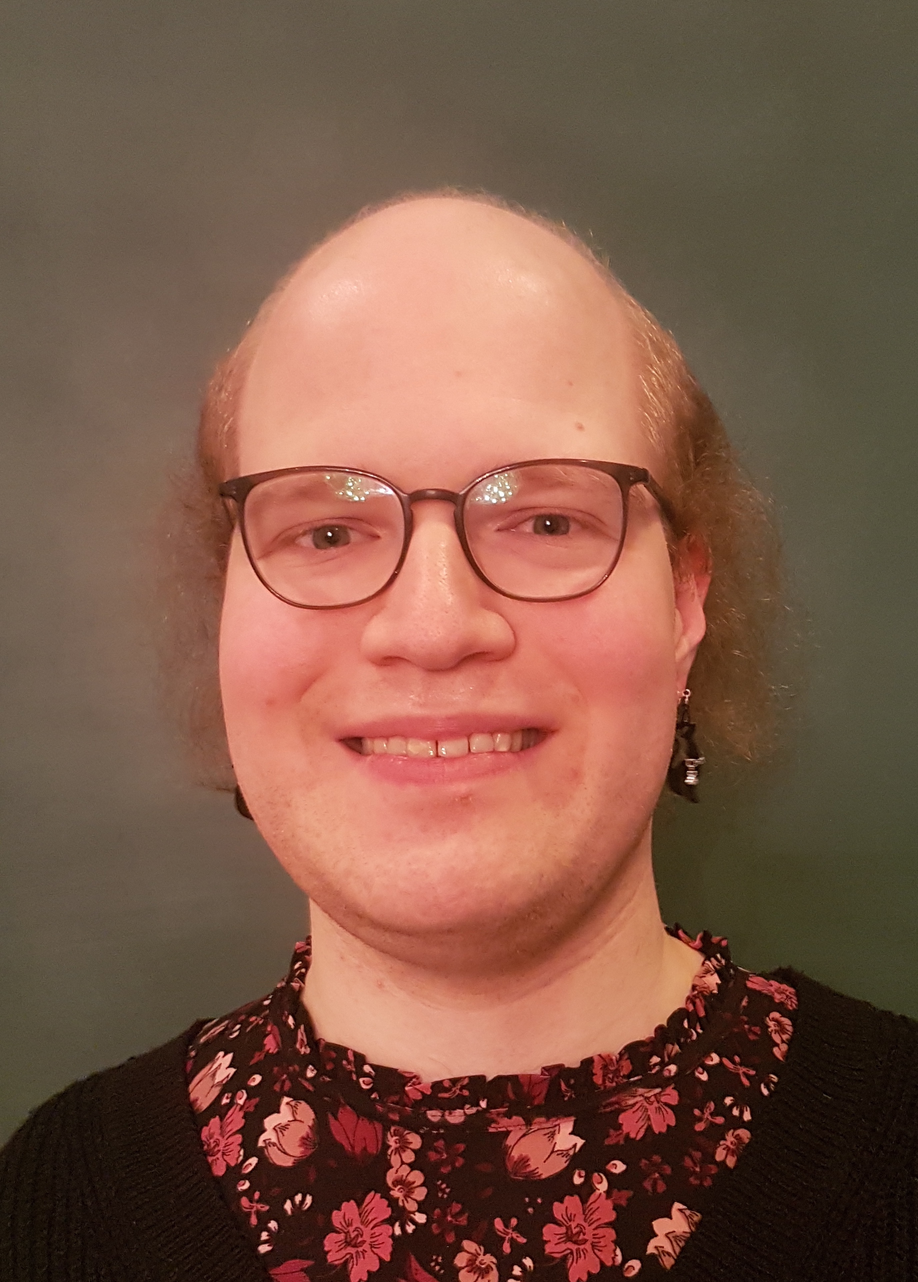
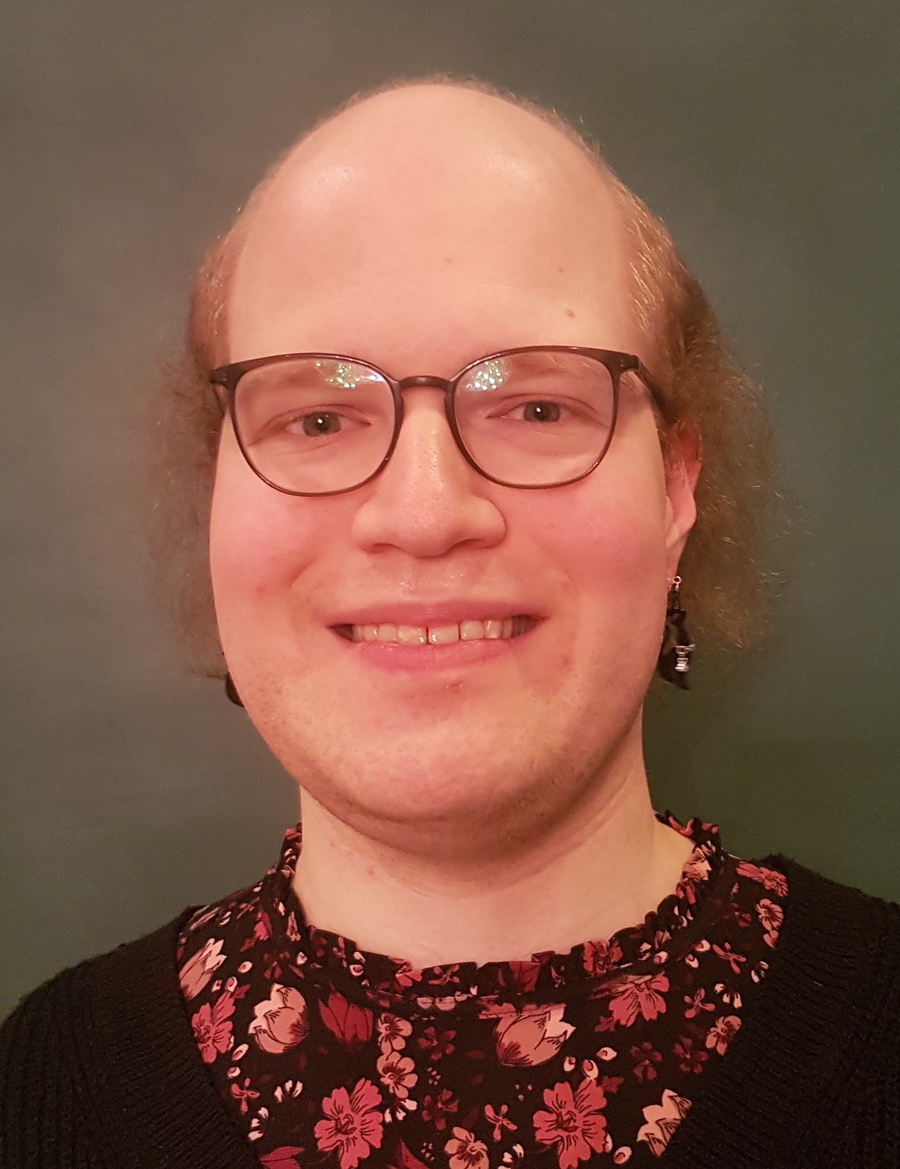
cropped pfp and small edits to ABOUT

diff --git a/_pages/about.md b/_pages/about.md
@@ -21,4 +21,4 @@ social: true  # includes social icons at the bottom of the page
 
 Hi, I'm Leo, a PhD student in math at the [Max Planck Institute for Mathematics in the Sciences](https://www.mis.mpg.de/) in Leipzig. I'm a member of the [Nonlinear Algebra group](https://www.mis.mpg.de/nlalg/research.html), my advisor is [Simon Telen](https://simontelen.webnode.page/). I am interested in (Commutative) Algebra and Algebraic Geometry with a view towards computation and applications.
 
-I studied both mathematics and computer science at the [Leibniz University Hanover](https://www.uni-hannover.de/en/) from 2016 to 2022. I wrote my master's theses on [*The Waring problem for polynomials: Geometry and applications*](/assets/pdf/The_Waring_problem_for_polynomials.pdf) and [*Gröbner Bases and Their Complexity*](/assets/pdf/Gr%C3%B6bner_Bases_and_Their_Complexity.pdf) respectively. 
+I studied both mathematics and computer science at the Leibniz University Hannover from 2016 to 2022. I wrote my master's theses on [The Waring problem for polynomials](/assets/pdf/The_Waring_problem_for_polynomials.pdf) and [Gröbner Bases and Their Complexity](/assets/pdf/Gr%C3%B6bner_Bases_and_Their_Complexity.pdf) respectively. 
